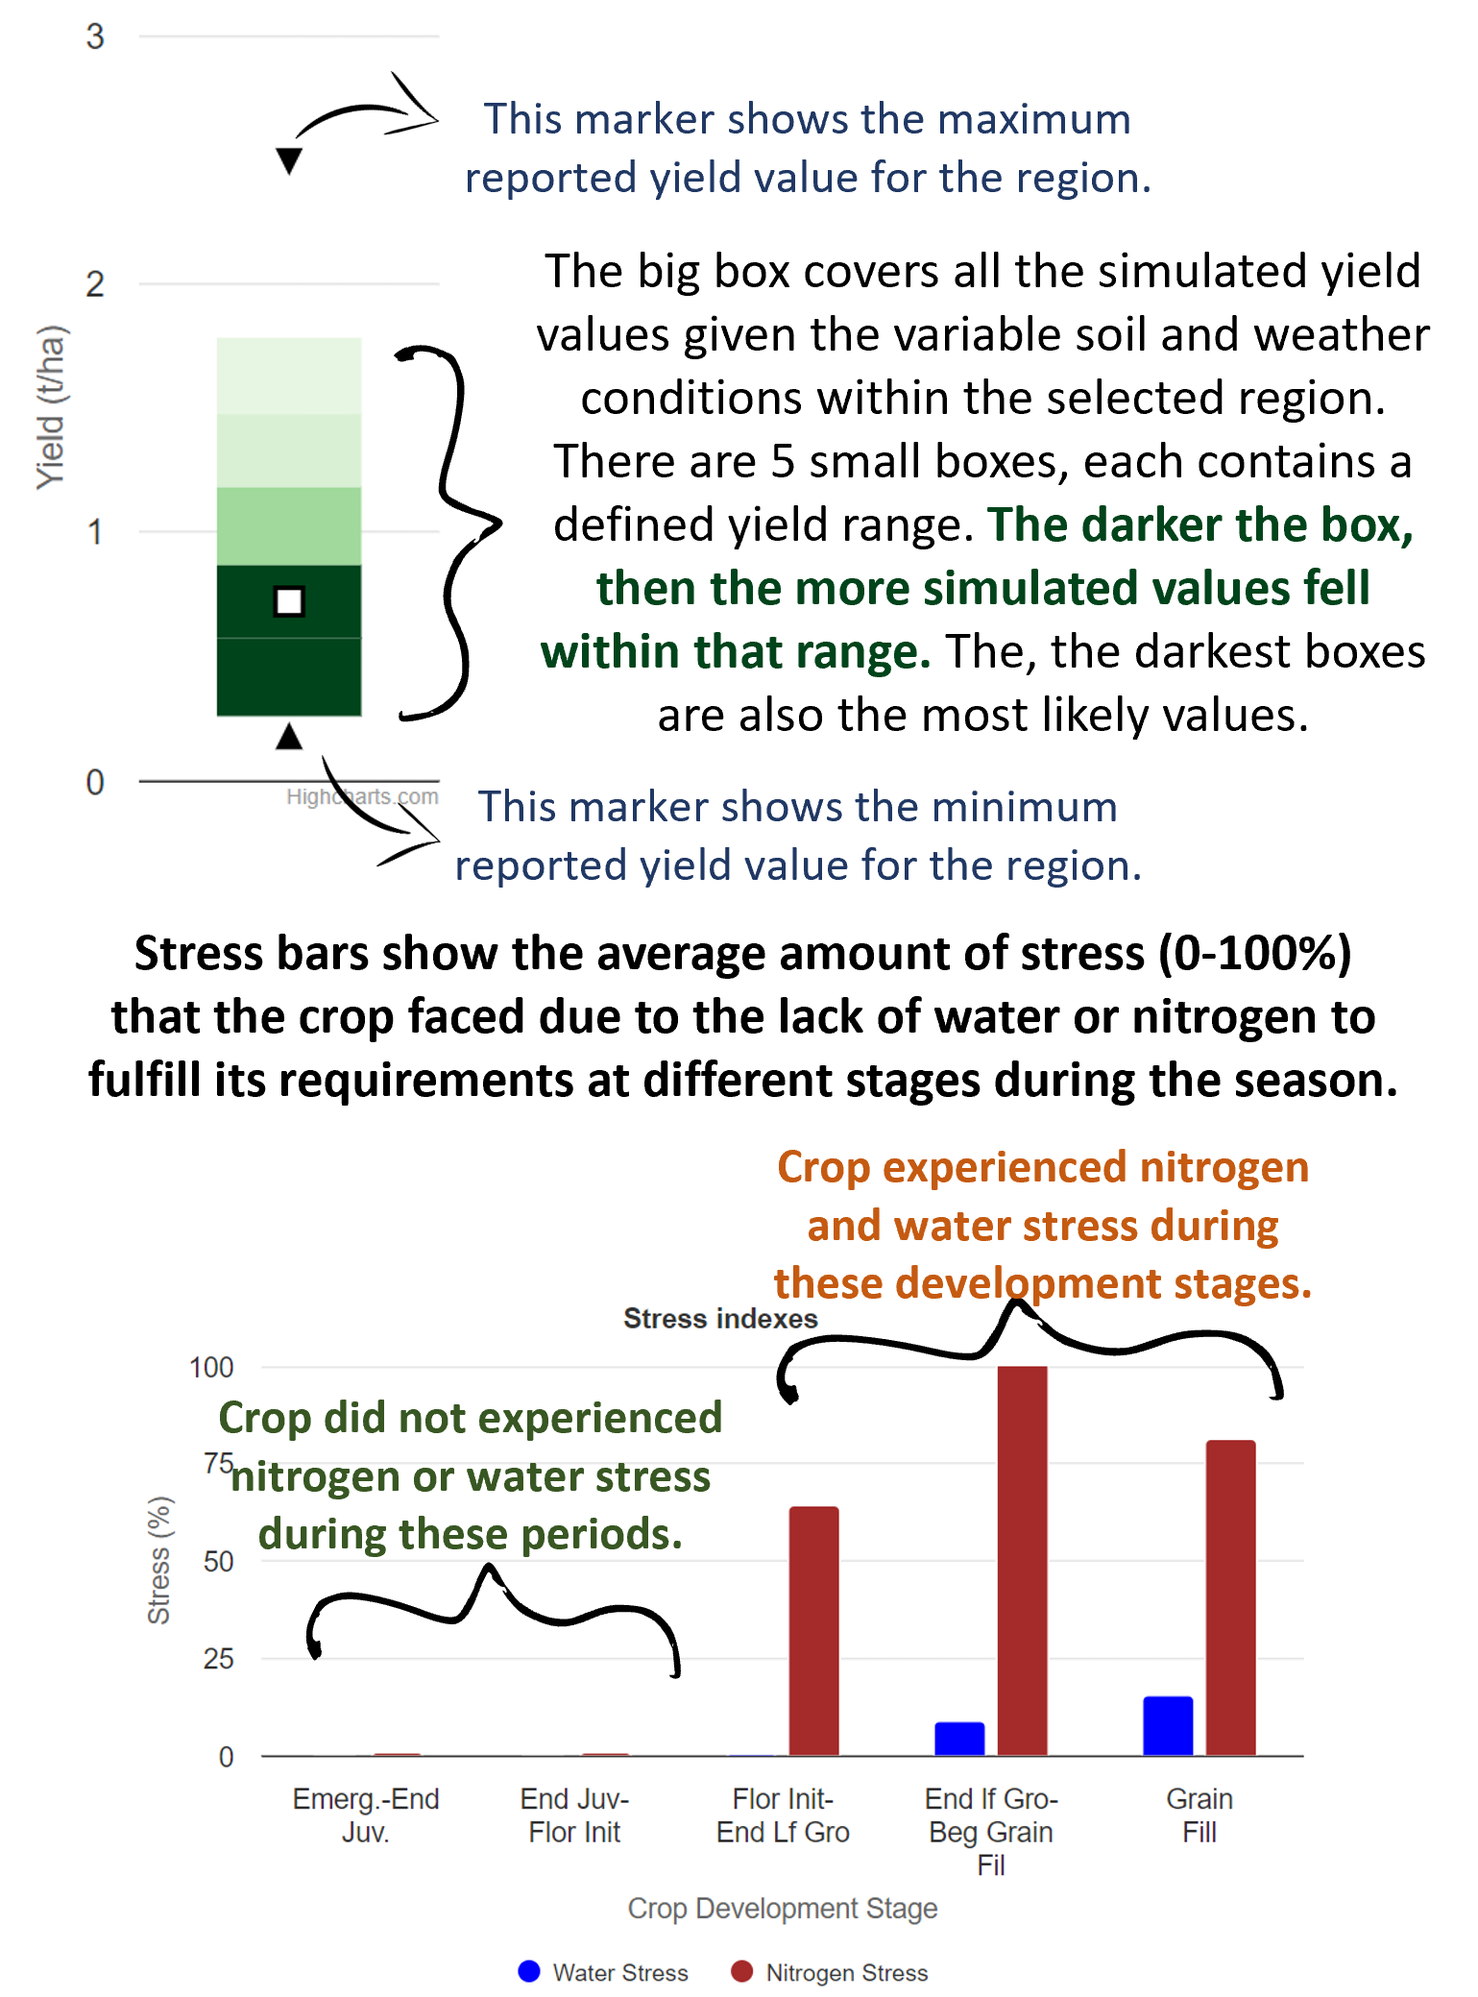
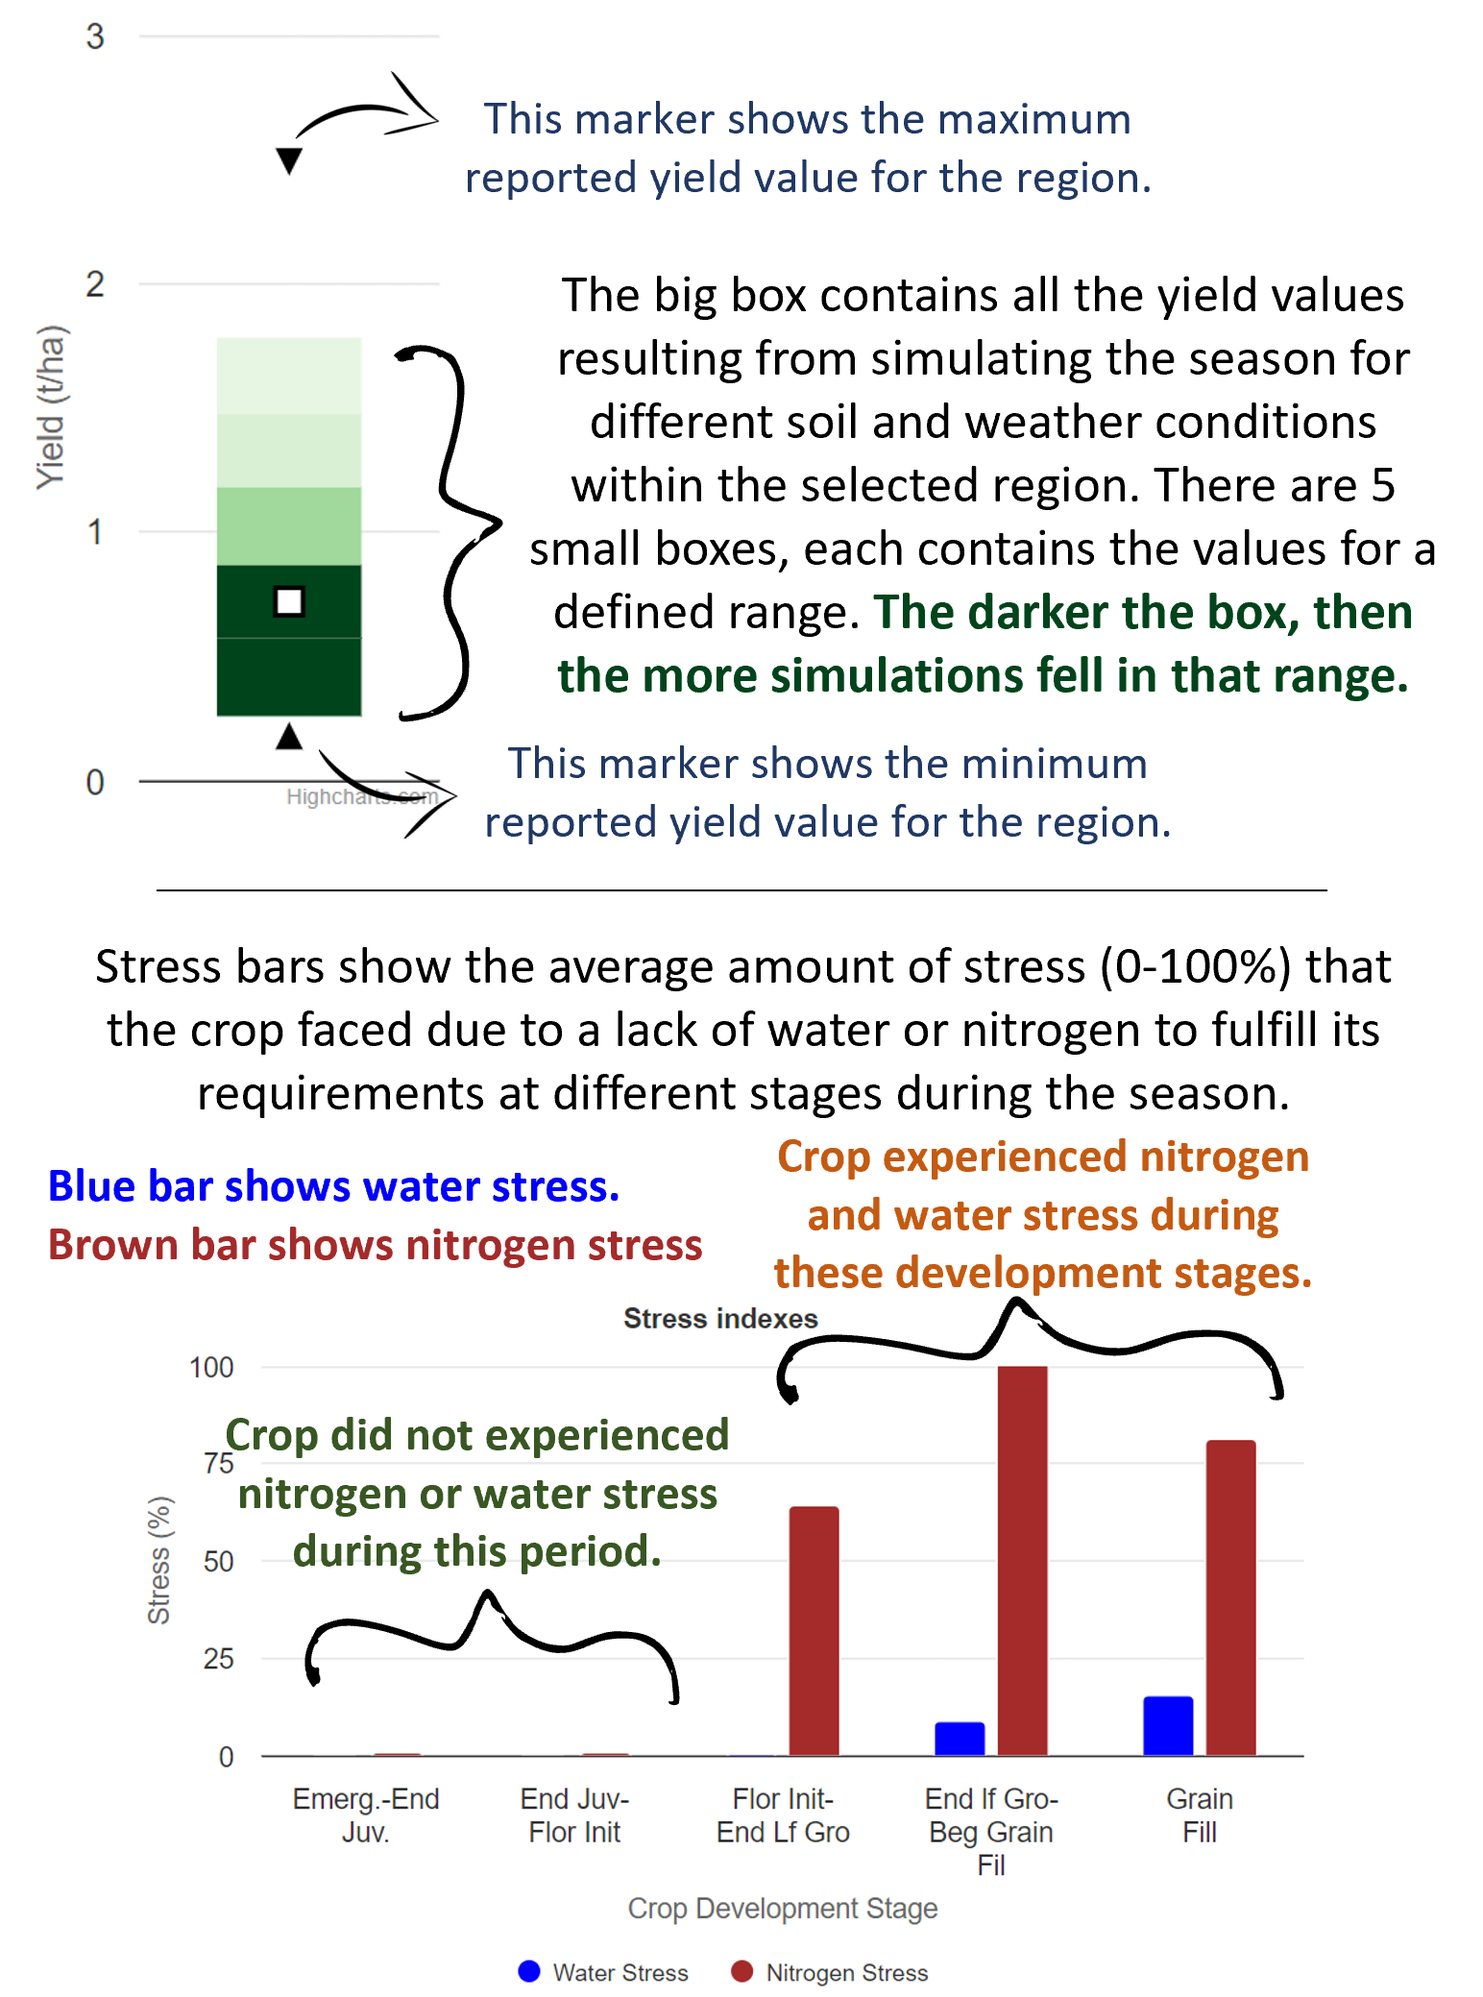
Map highlight and info box

diff --git a/dssat/templates/charts.html b/dssat/templates/charts.html
@@ -1,51 +1,51 @@
 <html lang="en">
 {% load static %}
 <head>
-    <title>DSSAT-Web</title>
-    <link rel="stylesheet" href="{% static 'css/style.css' %}"/>
-    <link rel="stylesheet" href="https://unpkg.com/leaflet@1.9.4/dist/leaflet.css"
-          integrity="sha256-p4NxAoJBhIIN+hmNHrzRCf9tD/miZyoHS5obTRR9BMY="
-          crossorigin=""/>
-    <link rel="stylesheet" href="https://cdn.jsdelivr.net/npm/bootstrap@5.3.2/dist/css/bootstrap.min.css"
-          integrity="sha384-T3c6CoIi6uLrA9TneNEoa7RxnatzjcDSCmG1MXxSR1GAsXEV/Dwwykc2MPK8M2HN" crossorigin="anonymous">
-    <script src="https://cdn.jsdelivr.net/npm/bootstrap@5.3.2/dist/js/bootstrap.min.js"
-            integrity="sha384-BBtl+eGJRgqQAUMxJ7pMwbEyER4l1g+O15P+16Ep7Q9Q+zqX6gSbd85u4mG4QzX+"
-            crossorigin="anonymous"></script>
-    <script src="https://unpkg.com/leaflet@1.9.4/dist/leaflet.js"
-            integrity="sha256-20nQCchB9co0qIjJZRGuk2/Z9VM+kNiyxNV1lvTlZBo="
-            crossorigin=""></script>
+  <title>DSSAT-Web</title>
+  <link rel="stylesheet" href="{% static 'css/style.css' %}"/>
+  <link rel="stylesheet" href="https://unpkg.com/leaflet@1.9.4/dist/leaflet.css"
+        integrity="sha256-p4NxAoJBhIIN+hmNHrzRCf9tD/miZyoHS5obTRR9BMY="
+        crossorigin=""/>
+  <link rel="stylesheet" href="https://cdn.jsdelivr.net/npm/bootstrap@5.3.2/dist/css/bootstrap.min.css"
+        integrity="sha384-T3c6CoIi6uLrA9TneNEoa7RxnatzjcDSCmG1MXxSR1GAsXEV/Dwwykc2MPK8M2HN" crossorigin="anonymous">
+  <script src="https://cdn.jsdelivr.net/npm/bootstrap@5.3.2/dist/js/bootstrap.min.js"
+          integrity="sha384-BBtl+eGJRgqQAUMxJ7pMwbEyER4l1g+O15P+16Ep7Q9Q+zqX6gSbd85u4mG4QzX+"
+          crossorigin="anonymous"></script>
+  <script src="https://unpkg.com/leaflet@1.9.4/dist/leaflet.js"
+          integrity="sha256-20nQCchB9co0qIjJZRGuk2/Z9VM+kNiyxNV1lvTlZBo="
+          crossorigin=""></script>
 
-    <script src="https://code.jquery.com/jquery-3.6.4.min.js"></script>
+  <script src="https://code.jquery.com/jquery-3.6.4.min.js"></script>
 
-    <script src="https://code.highcharts.com/highcharts.js"></script>
-    <script src="https://code.highcharts.com/highcharts-more.js"></script>
+  <script src="https://code.highcharts.com/highcharts.js"></script>
+  <script src="https://code.highcharts.com/highcharts-more.js"></script>
 
-    <script src="https://code.highcharts.com/modules/streamgraph.js"></script>
-    <script src="https://code.highcharts.com/modules/series-label.js"></script>
-    <script src="https://code.highcharts.com/modules/annotations.js"></script>
-    {% comment %} <script src="https://code.highcharts.com/modules/exporting.js"></script> {% endcomment %}
-    <script src="https://code.highcharts.com/modules/export-data.js"></script>
-    <script src="https://code.highcharts.com/modules/no-data-to-display.js"></script>
-    <script src="https://cdnjs.cloudflare.com/ajax/libs/font-awesome/6.6.0/js/all.min.js" integrity="sha512-6sSYJqDreZRZGkJ3b+YfdhB3MzmuP9R7X1QZ6g5aIXhRvR1Y/N/P47jmnkENm7YL3oqsmI6AK+V6AD99uWDnIw==" crossorigin="anonymous" referrerpolicy="no-referrer"></script>
-    <link rel="stylesheet" href="https://cdnjs.cloudflare.com/ajax/libs/font-awesome/6.6.0/css/all.min.css" integrity="sha512-Kc323vGBEqzTmouAECnVceyQqyqdsSiqLQISBL29aUW4U/M7pSPA/gEUZQqv1cwx4OnYxTxve5UMg5GT6L4JJg==" crossorigin="anonymous" referrerpolicy="no-referrer" />
-    <script src="{% static 'js/utils.js' %}"></script>
-    <style>
-        abbr {
-    position: relative;
-}
-abbr:hover::after {
-    content: attr(data-title);
-    position: absolute;
-    width: 300px;
-    left: 100%;
-    display: block;
-    padding: 0.5em;
-    background: white;
-    color:black;
-    border: solid black 1px;
-    z-index: 1000;
-}
-    </style>
+  <script src="https://code.highcharts.com/modules/streamgraph.js"></script>
+  <script src="https://code.highcharts.com/modules/series-label.js"></script>
+  <script src="https://code.highcharts.com/modules/annotations.js"></script>
+  {% comment %} <script src="https://code.highcharts.com/modules/exporting.js"></script> {% endcomment %}
+  <script src="https://code.highcharts.com/modules/export-data.js"></script>
+  <script src="https://code.highcharts.com/modules/no-data-to-display.js"></script>
+  <script src="https://cdnjs.cloudflare.com/ajax/libs/font-awesome/6.6.0/js/all.min.js" integrity="sha512-6sSYJqDreZRZGkJ3b+YfdhB3MzmuP9R7X1QZ6g5aIXhRvR1Y/N/P47jmnkENm7YL3oqsmI6AK+V6AD99uWDnIw==" crossorigin="anonymous" referrerpolicy="no-referrer"></script>
+  <link rel="stylesheet" href="https://cdnjs.cloudflare.com/ajax/libs/font-awesome/6.6.0/css/all.min.css" integrity="sha512-Kc323vGBEqzTmouAECnVceyQqyqdsSiqLQISBL29aUW4U/M7pSPA/gEUZQqv1cwx4OnYxTxve5UMg5GT6L4JJg==" crossorigin="anonymous" referrerpolicy="no-referrer" />
+  <script src="{% static 'js/utils.js' %}"></script>
+  <style>
+    abbr {
+      position: relative;
+    }
+    abbr:hover::after {
+        content: attr(data-title);
+        position: absolute;
+        width: 300px;
+        left: 100%;
+        display: block;
+        padding: 0.5em;
+        background: white;
+        color:black;
+        border: solid black 1px;
+        z-index: 1000;
+    }
+  </style>
 </head>
 
 <body>
@@ -54,6 +54,8 @@ abbr:hover::after {
     var cultivar_codes={{ cultivar_codes|safe }};
     var admin1='{{ admin1|safe }}';
     var admin1_country='{{ admin1_country|safe }}';
+    var max_date = '{{ max_date|date:"Y-m-d" }}';
+    console.log(max_date);
   </script>
 
   <nav class="navbar navbar-expand-lg navbar-light" style="background-color: darkolivegreen;height: 70px">
@@ -101,7 +103,7 @@ abbr:hover::after {
         This forecast was generated by simulating the crop season multiple times under different conditions. Such conditions represent the soil and weather variability within <span id="admin1">{{admin1}}</span>. Therefore, the forecast is conformed by multiple values that are a result of simulating one season for different soil and weather conditions in the region.
       </p>
       <h6>
-        The plots below sumarize the results of the forecast. The left hand side plot shows the distribution of the simulated yield values. The right hand side plot shows the crop water and nitrogen fertilizer stress during the season across different phenological stages.
+        The plots below sumarize the results of the forecast. The <i>DSSAT simulated maize yield</i> plot shows the distribution of the simulated yield values. The <i>Stress indexes</i> plot shows the crop water and nitrogen fertilizer stress during the season across different phenological stages.
       </h6>
       <div class="row">
         <div class="col-md-3" id="forecast_chart"></div>
@@ -118,7 +120,7 @@ abbr:hover::after {
               How to interpret the plots
             </button>
             <button class="btn btn-info m-auto" onclick="">
-              How reliable is the model
+              Forecast methodology
             </button>
           </div>
         </div>
@@ -127,7 +129,7 @@ abbr:hover::after {
 
     <div id="popup-box" class="modal">
       <div class="popup-content">
-        <img src="/static/img/Plot_interpretation.png" alt="SERVIR Global" style="max-height: 800px;">
+        <img src="/static/img/Plot_interpretation.png" alt="SERVIR Global" style="max-height: 600px;">
         <a href="#" style="position: absolute; top: 10px; right: 10px; color: #fe0606; font-size: 30px; text-decoration: none;">&times;</a>
       </div>
     </div>
@@ -138,7 +140,7 @@ abbr:hover::after {
     <div style="border:darkgray 1px solid;border-radius: 10px;padding: 10px;margin-bottom: 30px;">
       {% comment %} </div> {% endcomment %}
       <p>
-        You can run the model and produce a forecast with the management scenario that you define. Select the managment parameters, and then click the Run Simulation button. Each time you run a new simulation, the results will be added to the chart. To clean the charts click the Clean Chart button.
+        You can run the model and produce a forecast with the management scenario that you define. Select the managment parameters, and then click the Run <i>Simulation button</i>. Each time you run a new simulation, the results will be added to the chart. To reset the charts click the <i>Clean Chart</i> button.
       </p>
       <div class="parameters-box">
         <h5 style="text-align: center">Select crop management parameters</h5>
@@ -152,7 +154,7 @@ abbr:hover::after {
                 </label>
               </div>
               <div class="col-md-6">
-                <input id="startDate" class="form-control" type="date"/>
+                <input id="startDate" class="form-control" type="date", value="2024-03-01" min="2000-01-01", max='{{max_date|date:"Y-m-d" }}'/>
               </div>
             </div>
             <div class="row">
@@ -174,7 +176,7 @@ abbr:hover::after {
                 </label>
               </div>
               <div class="col-md-6">
-                <select name="irrigation" id="irrigation", class="form-select" disabled>
+                <select name="irrigation" id="irrigation", class="form-select">
                   <option value="yes">Apply Irrigation as needed</option>
                   <option value="no" selected>Don't apply irrigation</option>
                 </select>

diff --git a/dssat/static/js/script.js b/dssat/static/js/script.js
@@ -1,6 +1,8 @@
 var map = L.map('map');
 var gcountry='';
 var adm1='';
+var admin1_geojson 
+
 L.tileLayer('https://tile.openstreetmap.org/{z}/{x}/{y}.png', {
     maxZoom: 19,
     attribution: '&copy; <a href="http://www.openstreetmap.org/copyright">OpenStreetMap</a>'
@@ -68,43 +70,54 @@ function yieldCatStyle(feature) {
 function zoomToRegions(schema){
     var json_data={'schema':schema};
     var xhr = ajax_call('get-regions/',json_data);
- xhr.done(function(data){
-     console.log(data)
-     var geojson = L.geoJSON(
-        data.rows,{
-            onEachFeature: onEachFeature_regions,
-            style: yieldCatStyle
-        }
-    ).addTo(map);
- });
+    xhr.done(function(data){
+        console.log(data);
+        var geojson = L.geoJSON(
+            data.rows,
+            {
+                onEachFeature: onEachFeature_regions,
+                style: yieldCatStyle
+            }
+        ).addTo(map);
+        admin1_geojson = geojson;
+    });
 }
 
 // Legend to be added when country is clicked
 var legend = L.control({position: 'topright'});
 legend.onAdd = function (map) {
-
     var div = L.DomUtil.create('div', 'info legend'),
         labels = ['Very Low', 'Low', 'Normal', 'High', 'Very High'];
-
     // loop through our density intervals and generate a label with a colored square for each interval
-    div.innerHTML += '<h5>Legend</h5>'
+    div.innerHTML += '<h6>Legend</h6>'
     for (var i = labels.length; i > 0; i--) {
         div.innerHTML +=
             '<i style="background:' + getColor(labels[i-1]) + '"></i> ' +
             labels[i-1]  + '<br>';
     }
-
     return div;
-};
+}
 
+// For countries layer
+function onEachFeature(feature, layer) {
+    //bind click
+    layer.on({
+        click: whenClicked
+    });
+}
+
+// For countries features
 function whenClicked(e) {
     var country = e.target.feature.properties.country;
     gcountry = country;
     map.fitBounds(e.target.getBounds());
     zoomToRegions(country);
-    legend.addTo(map)
+    legend.addTo(map);
+    info.addTo(map);
+    map.removeLayer(country_layer);
 }
 
+// For each admin1 layer
 function whenClicked_region(e){
     console.log(e.target.feature)
     var admin1 = e.target.feature.properties.admin1;
@@ -115,6 +128,7 @@ function whenClicked_region(e){
     var refPeriod = e.target.feature.properties.ref_period;
     var plantingPeriod = e.target.feature.properties.planting_p;
     var obsAvg = Math.round(e.target.feature.properties.obs_avg)
+    var season = e.target.feature.properties.season_nam
     console.log(admin1);
 
     // var country = e.target.feature.properties.adm0_en;
@@ -132,28 +146,63 @@ function whenClicked_region(e){
              + plantingPeriod + ' period, and an average nitrogen rate of '
              + nitroRate + ' kg N / ha, which is equivalent to ' + ureaRate
              + ' kg of urea (46-0-0) per hectare. <b>An average yield of ' 
-             + predVal + ' kg/ha</b> was obtained, which is a ' + predCat 
-             + ' yield when compared to the average of the '
-             + refPeriod + ' reference period (' + obsAvg + ' kg/ha). <br>'
+             + predVal + ' kg/ha</b> was obtained'
+             + (
+                predCat ?
+                ', which is a ' + predCat + ' yield when compared to the '
+                + 'average of the '+ refPeriod + ' reference period in the '
+                + season +' season (' + obsAvg + ' kg/ha). <br>'
+                : ". No reference data available for comparison.<br>"
+            )
              + '<br><center><button id="charts" class="btn btn-secondary"'
              + 'style="font-weight: bold; background: green"'
              + ' onclick="load_charts('+str+')">Explore simulations</button>')
         .openOn(map);
 }
 
-function onEachFeature(feature, layer) {
-    //bind click
-    layer.on({
-        click: whenClicked
+var info = L.control();
+
+info.onAdd = function (map) {
+    this._div = L.DomUtil.create('div', 'info'); // create a div with a class "info"
+    this.update();
+    return this._div;
+};
+
+// method that we will use to update the control based on feature properties passed
+info.update = function (props) {
+    this._div.innerHTML = '<h6>Average forecasted yield</h6>' +  (props ?
+        '<b>' + props.admin1 + '</b><br />' + props.season_nam + ' season <br>' 
+        + Math.round(props.pred) + ' kg/ha'
+        : 'Hover over a county');
+};
+
+function highlightFeature(e) {
+    var layer = e.target;
+    layer.setStyle({
+        weight: 5,
+        color: '#8c8c8c',
+        dashArray: '',
+        fillOpacity: 0.7
     });
+    layer.bringToFront();
+    info.update(layer.feature.properties);
 }
 
+function resetHighlight(e) {
+    admin1_geojson.resetStyle(e.target);
+    info.update();
+}
+
+// For admin1 features
 function onEachFeature_regions(feature, layer) {
     layer.on({
-        click: whenClicked_region
+        click: whenClicked_region,
+        mouseover: highlightFeature,
+        mouseout: resetHighlight
     })
 }
 
+// countries layer
 var  country_layer = L.geoJSON(
     shp_obj, 
     {

diff --git a/dssat/static/js/utils.js b/dssat/static/js/utils.js
@@ -51,11 +51,13 @@ function generate_charts() {
     rate = get_rates();
     planting_date = $('#startDate').val();
     cultivar = $('#cultivar').val();
+    irrigation = $('#irrigation').val();
 
     console.log(planting_date);
     console.log(cultivar);
     console.log(daps);
     console.log(rate);
+    console.log(irrigation);
     if(daps.length===0)
         daps=[0]
     if(rate.length===0)
@@ -78,6 +80,7 @@ function generate_charts() {
         'dbname': 'dssatserv',
         'schema': admin1_country,
         'admin1': admin1,
+        'irrigation': irrigation
     }
     var xhr = ajax_call('run-experiment/', json_data);
     xhr.done(function (data) {

diff --git a/dssat/views.py b/dssat/views.py
@@ -1,4 +1,4 @@
-from datetime import datetime
+from datetime import datetime, timedelta
 from pathlib import Path
 import pickle
 
@@ -135,7 +135,7 @@ def charts(request, admin1='Nakuru_kenya'):
     cultivar_codes = [i for i in session.adminBase.cultivars.cultivar]
     desc = ""
     # print(cultivars, cultivars_codes)
-
+    max_date = datetime.today() + timedelta(30)
     # Render the response
     return render(request, 'charts.html', {
         'admin1': admin1_name,
@@ -148,7 +148,8 @@ def charts(request, admin1='Nakuru_kenya'):
         'range_chart': to_js_literal(r_chart),
         # 'anomaly_chart': to_js_literal(anom_chart),
         'stress_chart_water': to_js_literal(stress_chart_water),
-        'stress_chart_nitrogen': to_js_literal(stress_chart_nitrogen)
+        'stress_chart_nitrogen': to_js_literal(stress_chart_nitrogen),
+        'max_date': max_date
     })
 
 
@@ -176,6 +177,8 @@ def run_experiment(request, admin1):
     session.simPars.nitrogen_dap = [
         int(i) for i in request.POST.getlist('nitrogen_dap[]')
     ]
+    session.simPars.irrigation = request.POST.get('irrigation') == "yes"
+    print(session.simPars)
     session.run_experiment(fakerun=True)
 
     # Update charts with new data
